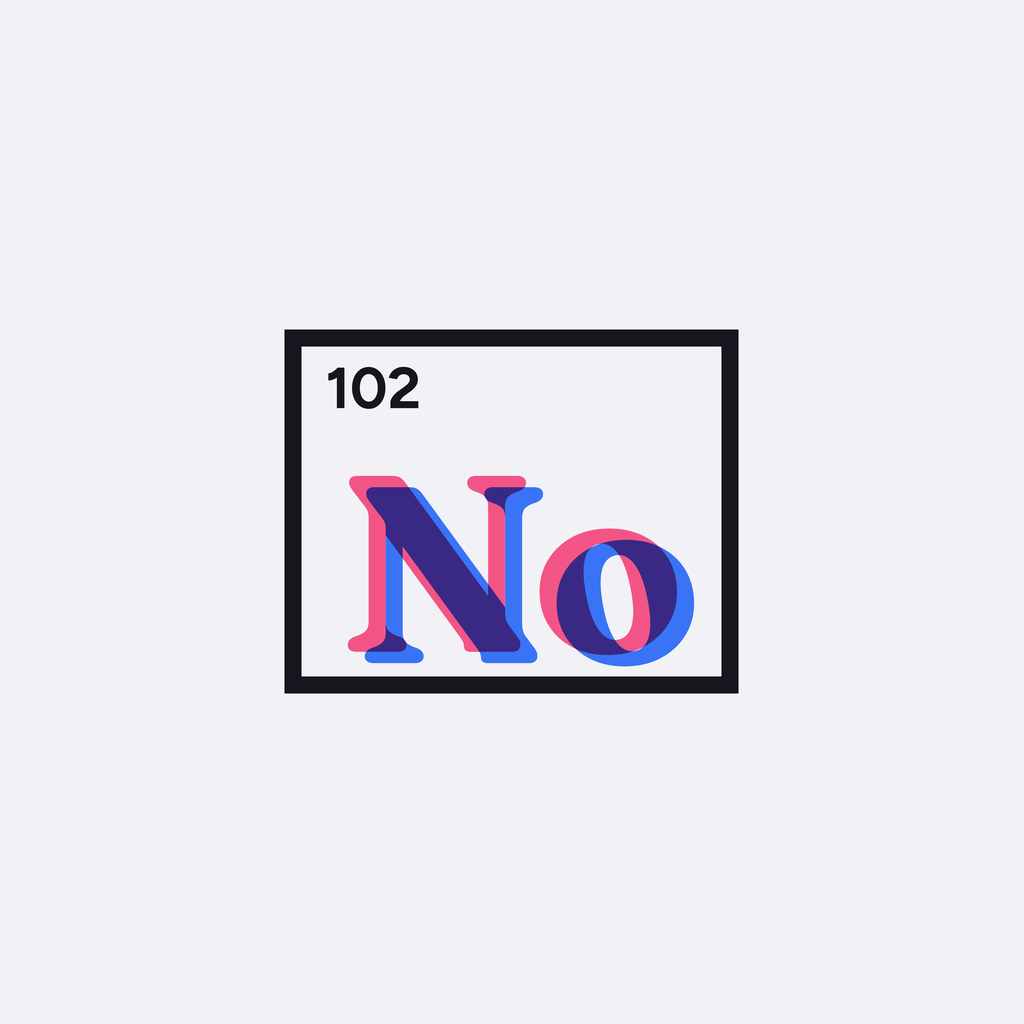
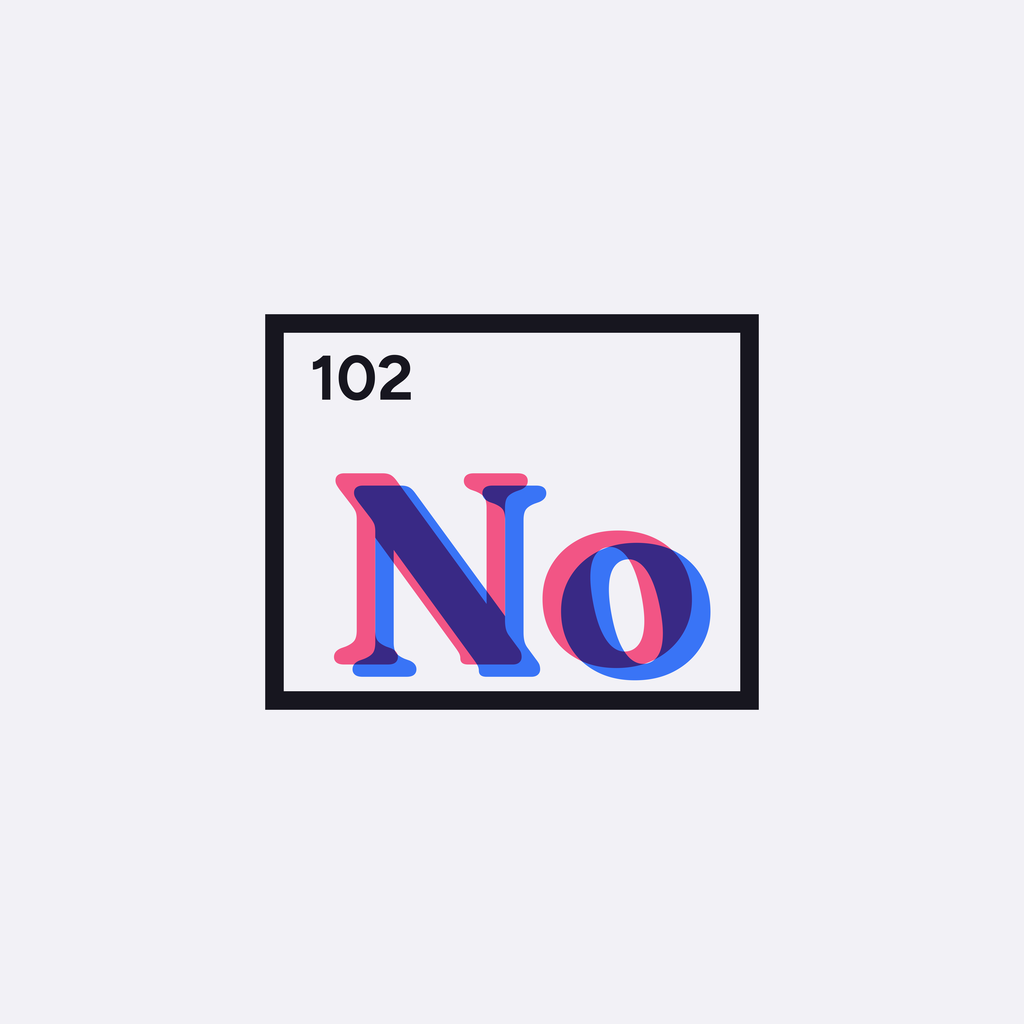
Icône Android plus grande (sans marge automatique) + icône monochrome pour les thèmes Android 13+
Claude-Session: https://claude.ai/code/session_01QJzUKae1E2TA6iyU52FEwN

Changed region(s): [[0.25, 0.2812, 0.75, 0.7188], [0.4688, 0.4688, 0.5312, 0.5]]

diff --git a/JOURNAL.md b/JOURNAL.md
@@ -112,4 +112,5 @@ Modèle par défaut : Haiku 5.5. Coût mesuré : environ 0,009 $ pour 5 articles
 - Clé de signature fixe : créée par Claude, remise à Maxime dans un fichier à garder (jamais dans le repo, `.gitignore` protège `*.p12`). Deux secrets GitHub : `ANDROID_KEYSTORE_BASE64` et `ANDROID_KEYSTORE_PASSWORD`. Sans ces secrets, la compilation retombe sur la clé de test (avertissement dans Actions).
 - Nettoyage R8 réactivé avec des règles « keep » complètes (Flutter, Kotlin dont `kotlin.Result`, coroutines, DataStore, ML Kit) et R8 en mode compatible. À tester sur le POCO ; si plantage, l'erreur s'affiche à l'écran.
 - APK de test allégé : uniquement pour les téléphones 64 bits (arm64, comme le POCO) et bibliothèques natives compressées. La version des stores (phase 9) couvrira tous les téléphones.
+- 19/10 — Icône trop petite sur le bureau du POCO (marge automatique de 16 % ajoutée par l'outil). Marge supprimée et case agrandie au maximum sûr (coins juste dans le cercle visible, valable pour toutes les formes d'icônes : rond, carré arrondi, goutte…). Ajout d'une icône monochrome pour les icônes « thématiques » d'Android 13+.
 - Horaire automatique de l'agent : pas encore activé (décision de Maxime).
